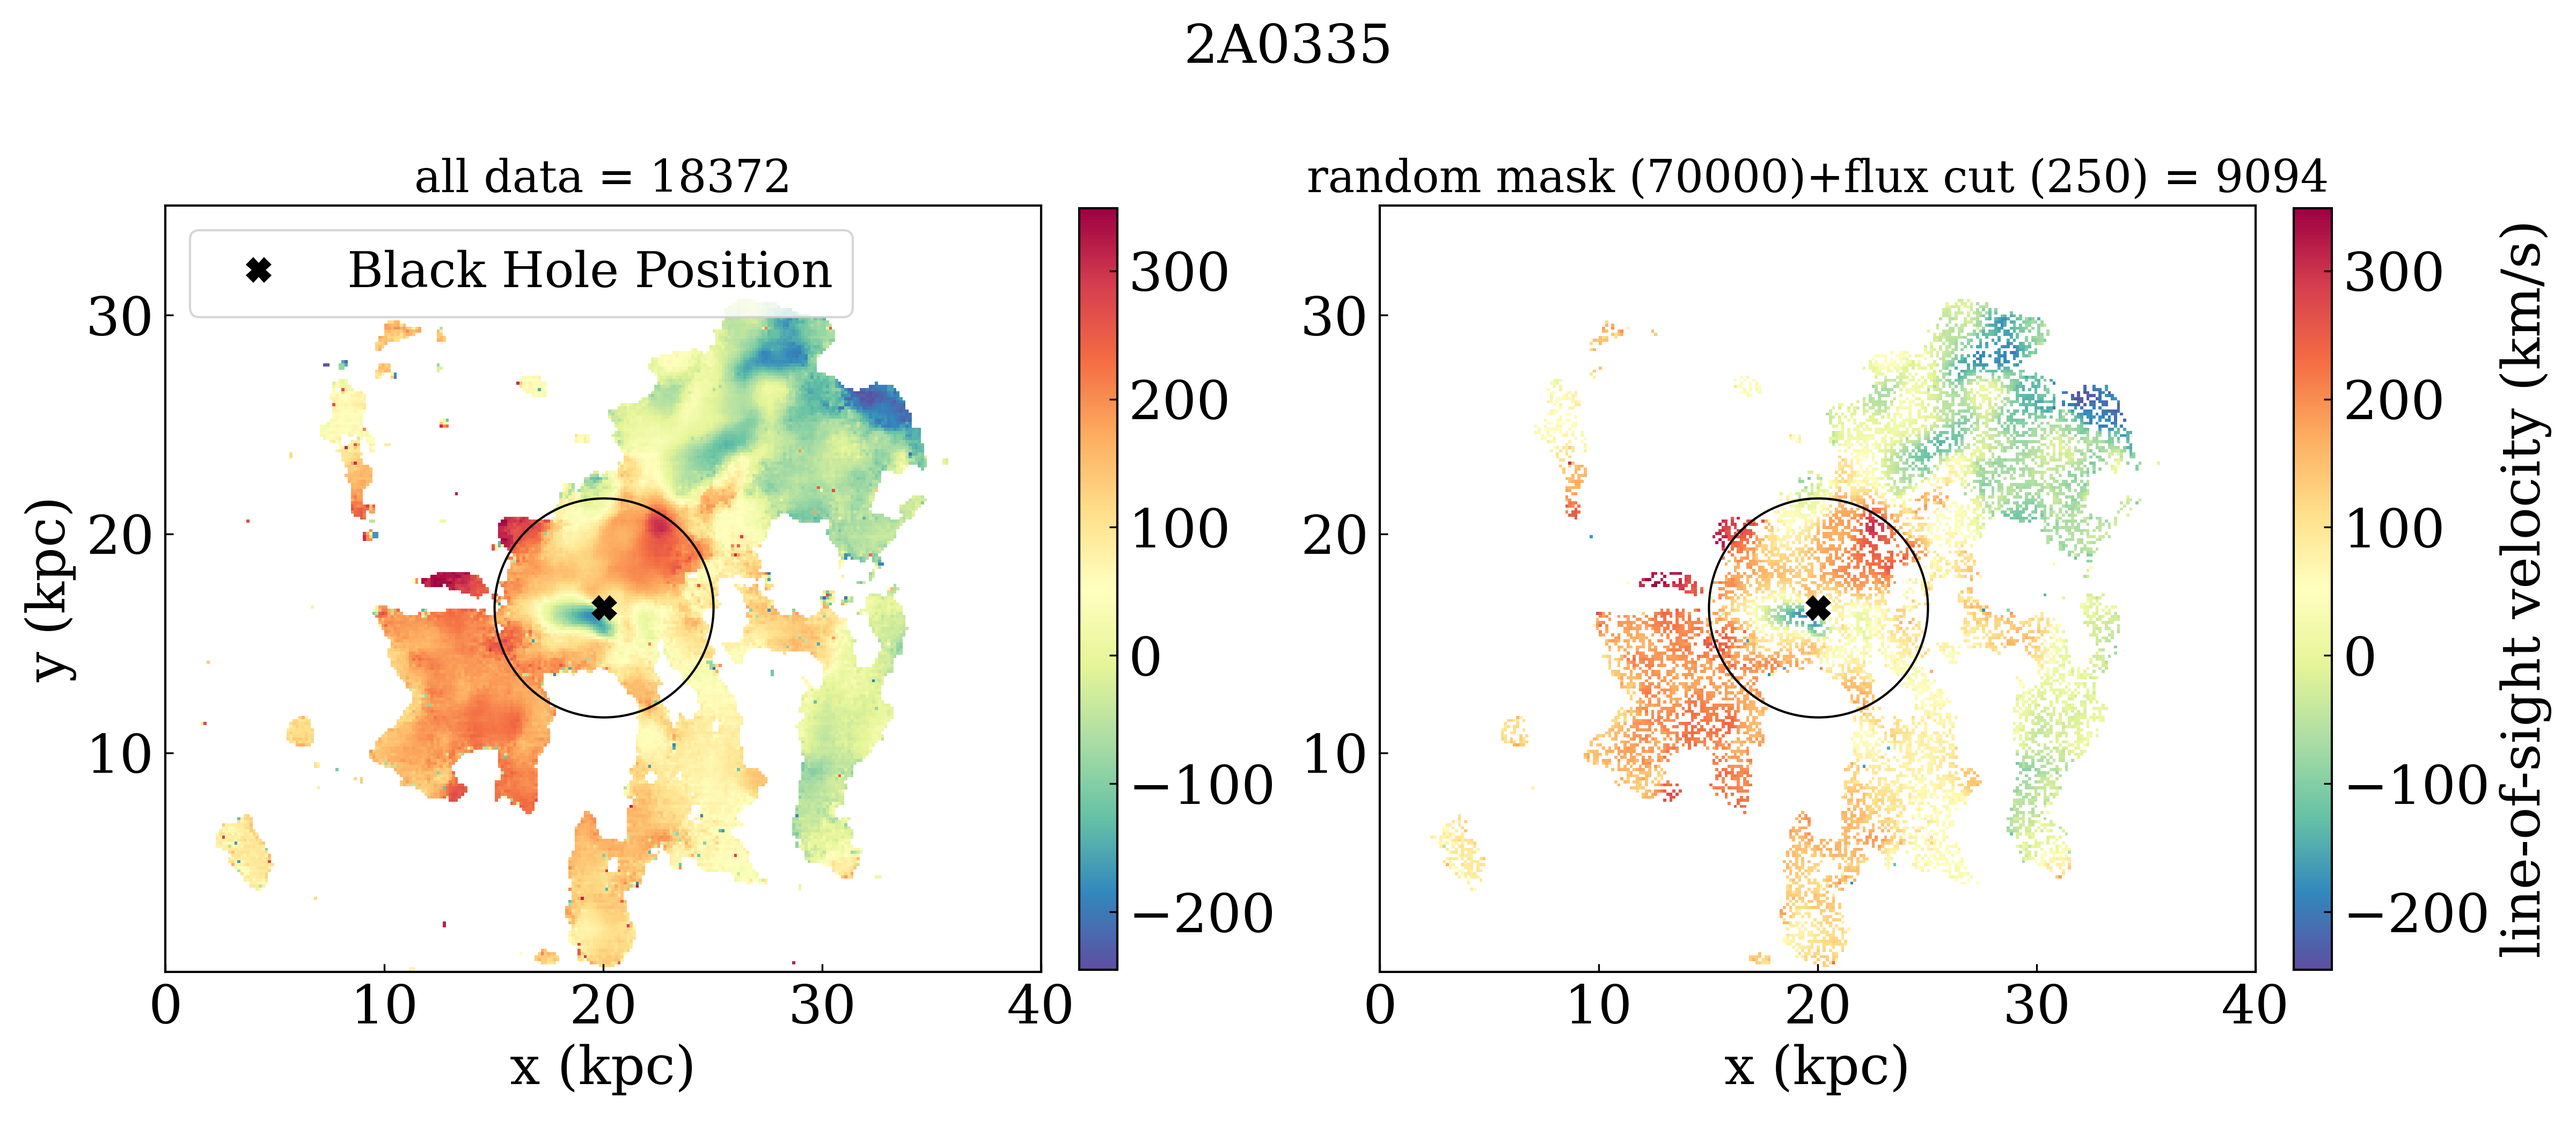
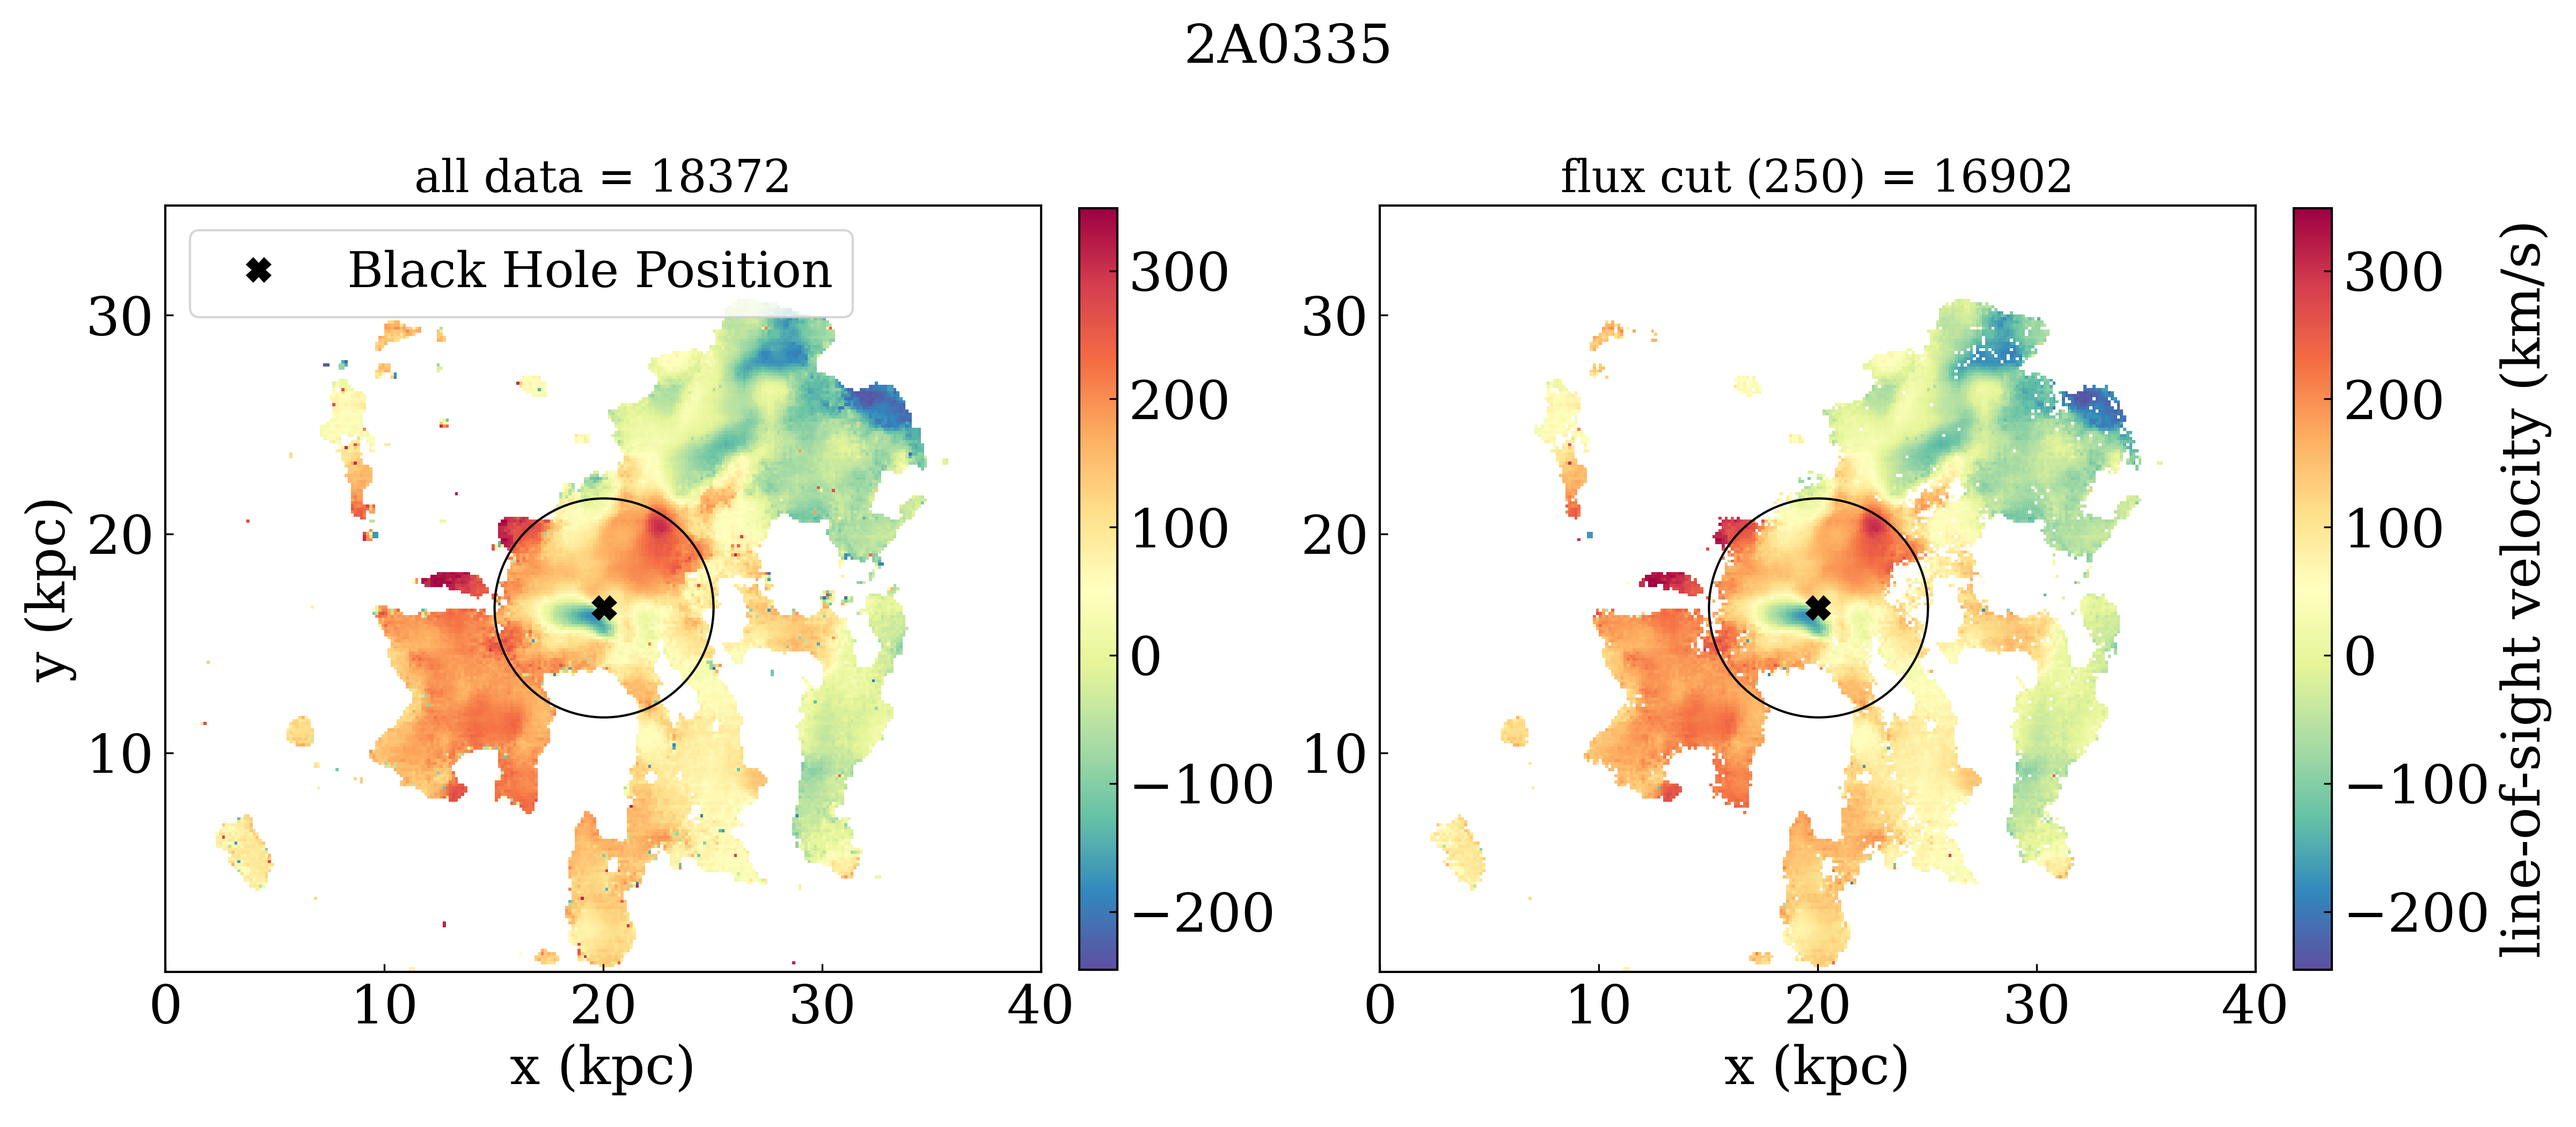
revert input file additions, must install git for large files

diff --git a/main.py b/main.py
@@ -70,7 +70,7 @@ if telescope=='MUSE':
         Cx, Cy = gal_center(fnvel)
         # setting up for plots
         flux_cut = True
-        rand_mask = True
+        rand_mask = False
         if flux_cut and rand_mask:
             cuts = [msk_sz, flcut]
         if flux_cut and not(rand_mask):
